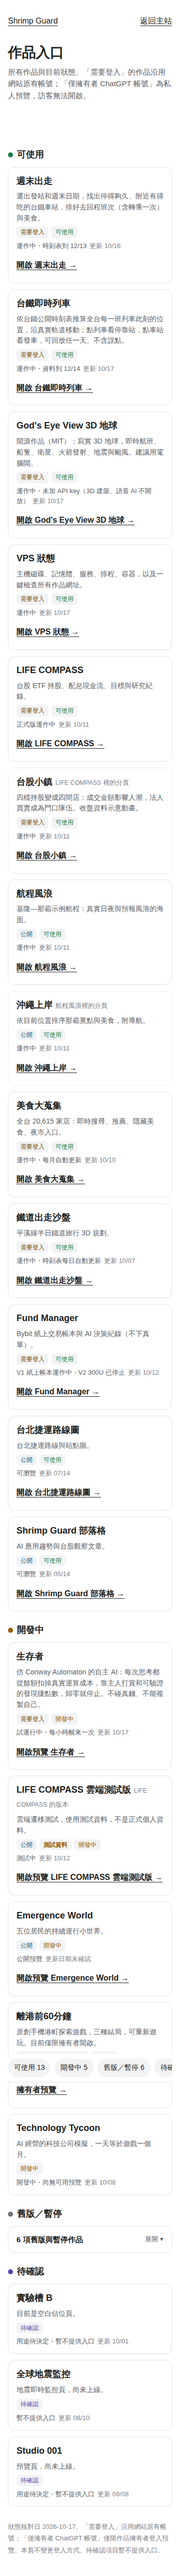
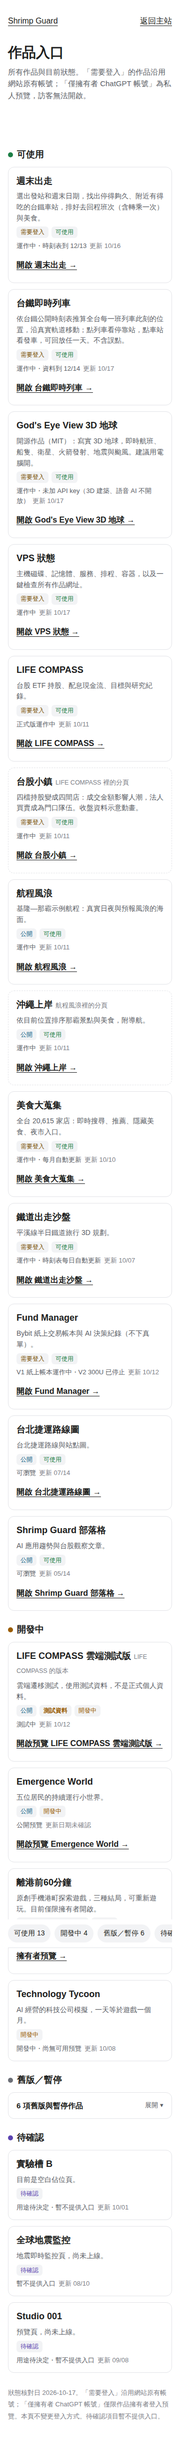
projects: retire 生存者 card (26 works)
Claude-Session: https://claude.ai/code/session_01GVcRfQhdVaSGc69DiKrmzk

diff --git a/overlays/projects/index.html b/overlays/projects/index.html
@@ -1,0 +1,28 @@
+<!doctype html><html lang="zh-Hant"><head><meta charset="utf-8"><meta name="viewport" content="width=device-width,initial-scale=1"><title>作品入口 · Shrimp Guard</title><meta name="description" content="Shrimp Guard 所有作品與目前狀態。"><style>
+:root{color-scheme:light dark;--bg:#fff;--card:#fff;--ink:#1d1e20;--ink2:#5b5e66;--ink3:#7d8087;--line:#e3e4e8;--chip:#f2f3f5;--ok:#1d7f46;--dev:#9a5c00;--old:#6c6f77;--ask:#5b43b0;--lock:#7a5000;--pub:#0a5f85}
+@media (prefers-color-scheme:dark){:root{--bg:#1d1e20;--card:#26272b;--ink:#dadadb;--ink2:#b0b2b7;--ink3:#8c8f96;--line:#38393e;--chip:#313237;--ok:#57c785;--dev:#e3a23a;--old:#a3a6ad;--ask:#ad98f2;--lock:#e5b864;--pub:#64bde4}}
+*{box-sizing:border-box}body{margin:0;background:var(--bg);color:var(--ink);font-family:-apple-system,BlinkMacSystemFont,"Segoe UI","PingFang TC","Noto Sans TC",sans-serif;line-height:1.55}
+.shell{max-width:1000px;margin:auto;padding:20px 16px 40px}
+nav.top{display:flex;justify-content:space-between;align-items:center}nav.top a{color:var(--ink);padding:10px 0;text-decoration:underline;text-underline-offset:4px}
+h1{font-size:clamp(28px,5vw,40px);margin:18px 0 6px}.intro{color:var(--ink2);margin:0;font-size:15px}
+.jump{position:sticky;top:0;z-index:2;background:var(--bg);display:flex;gap:8px;overflow-x:auto;padding:10px 0;margin-top:12px;border-bottom:1px solid var(--line)}
+.jump a{flex:none;font-size:14px;padding:7px 12px;border-radius:999px;background:var(--chip);color:var(--ink);text-decoration:none;white-space:nowrap}
+section{scroll-margin-top:60px}h2{display:flex;align-items:center;gap:8px;font-size:18px;margin:24px 0 10px}h2 i{width:10px;height:10px;border-radius:50%;display:inline-block}
+.grid{display:grid;grid-template-columns:repeat(2,minmax(0,1fr));gap:12px}
+.card{background:var(--card);border:1px solid var(--line);border-radius:12px;padding:14px 16px;display:flex;flex-direction:column;gap:6px;min-width:0}
+.card.sub{border-style:dashed}
+.name{font-size:18px;font-weight:700;margin:0}.of{font-size:12.5px;color:var(--ink3);font-weight:400;margin-left:6px}
+.desc{font-size:14px;color:var(--ink2);margin:0}
+.tags{display:flex;gap:6px;flex-wrap:wrap;margin:0;padding:0;list-style:none}
+.tags li{font-size:12px;padding:2px 8px;border-radius:6px;background:var(--chip);color:var(--ink2)}
+.tags .pub{color:var(--pub)}.tags .lock{color:var(--lock)}.tags .ok{color:var(--ok)}.tags .dev{color:var(--dev)}.tags .old{color:var(--old)}.tags .ask{color:var(--ask)}.tags .test{color:var(--dev);font-weight:700}
+.st{font-size:13px;color:var(--ink2);margin:0}.st time{color:var(--ink3);margin-left:6px}
+.open{margin:2px 0 0}.open a{display:inline-block;padding:8px 0;color:var(--ink);font-weight:700;text-decoration:underline;text-underline-offset:4px}
+details{border:1px solid var(--line);border-radius:12px;background:var(--card)}
+summary{cursor:pointer;padding:14px 16px;font-size:15px;font-weight:700;display:flex;justify-content:space-between;align-items:center}
+summary::-webkit-details-marker{display:none}summary::after{content:"展開 ▾";font-size:13px;font-weight:500;color:var(--ink2)}details[open] summary::after{content:"收合 ▴"}
+details .grid{padding:0 12px 12px}
+footer{margin-top:28px;font-size:13px;color:var(--ink3);line-height:1.8}
+a:focus-visible,summary:focus-visible{outline:3px solid #6797c0;outline-offset:4px}
+@media(max-width:600px){.grid{grid-template-columns:1fr}}
+</style></head><body><div class="shell"><nav class="top" aria-label="網站導覽"><a href="/">Shrimp Guard</a><a href="/">返回主站</a></nav><main><h1>作品入口</h1><p class="intro">所有作品與目前狀態。「需要登入」的作品沿用網站原有帳號；「僅擁有者 ChatGPT 帳號」為私人預覽，訪客無法開啟。</p><nav class="jump" aria-label="分類"><a href="#ok">可使用 13</a><a href="#dev">開發中 4</a><a href="#old">舊版／暫停 6</a><a href="#ask">待確認 3</a></nav><section id="ok" aria-label="可使用"><h2><i style="background:var(--ok)"></i>可使用</h2><div class="grid"><article class="card"><h3 class="name">週末出走</h3><p class="desc">選出發站和週末日期，找出停得夠久、附近有得吃的台鐵車站，排好去回程班次（含轉乘一次）與美食。</p><ul class="tags"><li class="lock">需要登入</li><li class="ok">可使用</li></ul><p class="st">運作中・時刻表到 12/13<time>更新 10/16</time></p><p class="open"><a href="https://dashboard.shrimp-guard.us.ci/weekend/">開啟 週末出走 →</a></p></article><article class="card"><h3 class="name">台鐵即時列車</h3><p class="desc">依台鐵公開時刻表推算全台每一班列車此刻的位置，沿真實軌道移動；點列車看停靠站，點車站看發車，可回放任一天。不含誤點。</p><ul class="tags"><li class="lock">需要登入</li><li class="ok">可使用</li></ul><p class="st">運作中・資料到 12/14<time>更新 10/17</time></p><p class="open"><a href="https://dashboard.shrimp-guard.us.ci/apps/rail-live/">開啟 台鐵即時列車 →</a></p></article><article class="card"><h3 class="name">God&#x27;s Eye View 3D 地球</h3><p class="desc">開源作品（MIT）：寫實 3D 地球，即時航班、船隻、衛星、火箭發射、地震與颱風。建議用電腦開。</p><ul class="tags"><li class="lock">需要登入</li><li class="ok">可使用</li></ul><p class="st">運作中・未加 API key（3D 建築、語音 AI 不開放）<time>更新 10/17</time></p><p class="open"><a href="https://dashboard.shrimp-guard.us.ci/globe/">開啟 God&#x27;s Eye View 3D 地球 →</a></p></article><article class="card"><h3 class="name">VPS 狀態</h3><p class="desc">主機磁碟、記憶體、服務、排程、容器，以及一鍵檢查所有作品網址。</p><ul class="tags"><li class="lock">需要登入</li><li class="ok">可使用</li></ul><p class="st">運作中<time>更新 10/17</time></p><p class="open"><a href="https://dashboard.shrimp-guard.us.ci/apps/vps/">開啟 VPS 狀態 →</a></p></article><article class="card"><h3 class="name">LIFE COMPASS</h3><p class="desc">台股 ETF 持股、配息現金流、目標與研究紀錄。</p><ul class="tags"><li class="lock">需要登入</li><li class="ok">可使用</li></ul><p class="st">正式版運作中<time>更新 10/11</time></p><p class="open"><a href="https://dashboard.shrimp-guard.us.ci/one-life/">開啟 LIFE COMPASS →</a></p></article><article class="card sub"><h3 class="name">台股小鎮<span class="of">LIFE COMPASS 裡的分頁</span></h3><p class="desc">四檔持股變成四間店：成交金額影響人潮，法人買賣成為門口隊伍。收盤資料示意動畫。</p><ul class="tags"><li class="lock">需要登入</li><li class="ok">可使用</li></ul><p class="st">運作中<time>更新 10/11</time></p><p class="open"><a href="https://dashboard.shrimp-guard.us.ci/one-life/#town">開啟 台股小鎮 →</a></p></article><article class="card"><h3 class="name">航程風浪</h3><p class="desc">基隆—那霸示例航程：真實日夜與預報風浪的海面。</p><ul class="tags"><li class="pub">公開</li><li class="ok">可使用</li></ul><p class="st">運作中<time>更新 10/11</time></p><p class="open"><a href="/room/">開啟 航程風浪 →</a></p></article><article class="card sub"><h3 class="name">沖繩上岸<span class="of">航程風浪裡的分頁</span></h3><p class="desc">依目前位置排序那霸景點與美食，附導航。</p><ul class="tags"><li class="pub">公開</li><li class="ok">可使用</li></ul><p class="st">運作中<time>更新 10/11</time></p><p class="open"><a href="/room/#landing">開啟 沖繩上岸 →</a></p></article><article class="card"><h3 class="name">美食大蒐集</h3><p class="desc">全台 20,615 家店：即時搜尋、推薦、隱藏美食、夜市入口。</p><ul class="tags"><li class="lock">需要登入</li><li class="ok">可使用</li></ul><p class="st">運作中・每月自動更新<time>更新 10/10</time></p><p class="open"><a href="https://dashboard.shrimp-guard.us.ci/food-map/">開啟 美食大蒐集 →</a></p></article><article class="card"><h3 class="name">鐵道出走沙盤</h3><p class="desc">平溪線半日鐵道旅行 3D 規劃。</p><ul class="tags"><li class="lock">需要登入</li><li class="ok">可使用</li></ul><p class="st">運作中・時刻表每日自動更新<time>更新 10/07</time></p><p class="open"><a href="https://dashboard.shrimp-guard.us.ci/rail-trip/">開啟 鐵道出走沙盤 →</a></p></article><article class="card"><h3 class="name">Fund Manager</h3><p class="desc">Bybit 紙上交易帳本與 AI 決策紀錄（不下真單）。</p><ul class="tags"><li class="lock">需要登入</li><li class="ok">可使用</li></ul><p class="st">V1 紙上帳本運作中・V2 300U 已停止<time>更新 10/12</time></p><p class="open"><a href="https://dashboard.shrimp-guard.us.ci/fund-manager/">開啟 Fund Manager →</a></p></article><article class="card"><h3 class="name">台北捷運路線圖</h3><p class="desc">台北捷運路線與站點圖。</p><ul class="tags"><li class="pub">公開</li><li class="ok">可使用</li></ul><p class="st">可瀏覽<time>更新 07/14</time></p><p class="open"><a href="/taipei-mrt/">開啟 台北捷運路線圖 →</a></p></article><article class="card"><h3 class="name">Shrimp Guard 部落格</h3><p class="desc">AI 應用趨勢與台股觀察文章。</p><ul class="tags"><li class="pub">公開</li><li class="ok">可使用</li></ul><p class="st">可瀏覽<time>更新 05/14</time></p><p class="open"><a href="/">開啟 Shrimp Guard 部落格 →</a></p></article></div></section><section id="dev" aria-label="開發中"><h2><i style="background:var(--dev)"></i>開發中</h2><div class="grid"><article class="card"><h3 class="name">LIFE COMPASS 雲端測試版<span class="of">LIFE COMPASS 的版本</span></h3><p class="desc">雲端遷移測試，使用測試資料，不是正式個人資料。</p><ul class="tags"><li class="pub">公開</li><li class="test">測試資料</li><li class="dev">開發中</li></ul><p class="st">測試中<time>更新 10/12</time></p><p class="open"><a href="https://life-compass.httpsmulticlawmoltidworkersdevcmolt32c002a10b29b0e3ad3.workers.dev/">開啟預覽 LIFE COMPASS 雲端測試版 →</a></p></article><article class="card"><h3 class="name">Emergence World</h3><p class="desc">五位居民的持續運行小世界。</p><ul class="tags"><li class="pub">公開</li><li class="dev">開發中</li></ul><p class="st">公開預覽<time>更新日期未確認</time></p><p class="open"><a href="https://emergence-world-preview.httpsmulticlawmoltidworkersdevcmolt32c002a10b29b0e3ad3.workers.dev/">開啟預覽 Emergence World →</a></p></article><article class="card"><h3 class="name">離港前60分鐘</h3><p class="desc">原創手機港町探索遊戲，三種結局，可重新遊玩。目前僅限擁有者開啟。</p><ul class="tags"><li class="lock">僅擁有者 ChatGPT 帳號</li><li class="dev">開發中</li></ul><p class="st">可玩測試版・私人存取<time>更新 10/13</time></p><p class="open"><a href="https://harbor-sixty-minute-game.windy-maple-0615.chatgpt.site">擁有者預覽 →</a></p></article><article class="card"><h3 class="name">Technology Tycoon</h3><p class="desc">AI 經營的科技公司模擬，一天等於遊戲一個月。</p><ul class="tags"><li class="dev">開發中</li></ul><p class="st">開發中・尚無可用預覽<time>更新 10/08</time></p></article></div></section><section id="old" aria-label="舊版／暫停"><h2><i style="background:var(--old)"></i>舊版／暫停</h2><details><summary>6 項舊版與暫停作品</summary><div class="grid"><article class="card"><h3 class="name">小王國</h3><p class="desc">手機王國遊戲（建設村莊、發布懸賞、英雄自行出任務）。</p><ul class="tags"><li class="old">舊版／暫停</li></ul><p class="st">暫停・素材成果保留<time>更新 10/12</time></p></article><article class="card"><h3 class="name">世界與我</h3><p class="desc">原入口保留中。</p><ul class="tags"><li class="pub">公開</li><li class="old">舊版／暫停</li></ul><p class="st">保留中<time>更新 10/08</time></p><p class="open"><a href="/world-impact/">開啟 世界與我 →</a></p></article><article class="card"><h3 class="name">美食大蒐集（公開版）<span class="of">美食大蒐集的版本</span></h3><p class="desc">曾規劃的 GitHub Pages 公開版本。</p><ul class="tags"><li class="old">舊版／暫停</li></ul><p class="st">暫停・正式版在美食大蒐集<time>更新 10/10</time></p></article><article class="card"><h3 class="name">ONE LIFE ／ AI Resident</h3><p class="desc">生活角色實驗，網址已由 LIFE COMPASS 接手。</p><ul class="tags"><li class="old">舊版／暫停</li></ul><p class="st">已退役<time>更新 10/01</time></p></article><article class="card"><h3 class="name">AI COMMONS ／ Latticefolk</h3><p class="desc">多模型社群與 AI 生活世界實驗。</p><ul class="tags"><li class="old">舊版／暫停</li></ul><p class="st">已退役<time>更新 09/30</time></p></article><article class="card"><h3 class="name">Fund Manager V2 300U<span class="of">Fund Manager 的版本</span></h3><p class="desc">300 USDT 雙向持倉紙上帳本。</p><ul class="tags"><li class="old">舊版／暫停</li></ul><p class="st">已停止・紀錄可在 Fund Manager 查看<time>更新 10/12</time></p></article></div></details></section><section id="ask" aria-label="待確認"><h2><i style="background:var(--ask)"></i>待確認</h2><div class="grid"><article class="card"><h3 class="name">實驗槽 B</h3><p class="desc">目前是空白佔位頁。</p><ul class="tags"><li class="ask">待確認</li></ul><p class="st">用途待決定・暫不提供入口<time>更新 10/01</time></p></article><article class="card"><h3 class="name">全球地震監控</h3><p class="desc">地震即時監控頁，尚未上線。</p><ul class="tags"><li class="ask">待確認</li></ul><p class="st">暫不提供入口<time>更新 08/10</time></p></article><article class="card"><h3 class="name">Studio 001</h3><p class="desc">預覽頁，尚未上線。</p><ul class="tags"><li class="ask">待確認</li></ul><p class="st">用途待決定・暫不提供入口<time>更新 09/08</time></p></article></div></section></main><footer>狀態核對日 2026-10-17。「需要登入」沿用網站原有帳號；「僅擁有者 ChatGPT 帳號」僅限作品擁有者登入預覽。本頁不變更登入方式。待確認項目暫不提供入口。</footer></div></body></html>

diff --git a/scripts/build_projects_entry.py b/scripts/build_projects_entry.py
@@ -21,7 +21,6 @@ WORKS = [
     dict(g='ok', name='Fund Manager', desc='Bybit 紙上交易帳本與 AI 決策紀錄（不下真單）。', url=D + '/fund-manager/', login=True, st='V1 紙上帳本運作中・V2 300U 已停止', date='10/12'),
     dict(g='ok', name='台北捷運路線圖', desc='台北捷運路線與站點圖。', url='/taipei-mrt/', login=False, st='可瀏覽', date='07/14'),
     dict(g='ok', name='Shrimp Guard 部落格', desc='AI 應用趨勢與台股觀察文章。', url='/', login=False, st='可瀏覽', date='05/14'),
-    dict(g='dev', name='生存者', desc='仿 Conway Automaton 的自主 AI：每次思考都從餘額扣掉真實運算成本，靠主人打賞和可驗證的發現賺點數，歸零就停止。不碰真錢、不能複製自己。', url=D + '/apps/automaton/', login=True, st='試運行中・每小時醒來一次', date='10/17'),
     dict(g='dev', name='LIFE COMPASS 雲端測試版', of='LIFE COMPASS 的版本', desc='雲端遷移測試，使用測試資料，不是正式個人資料。', url='https://life-compass.httpsmulticlawmoltidworkersdevcmolt32c002a10b29b0e3ad3.workers.dev/', login=False, test=True, st='測試中', date='10/12'),
     dict(g='dev', name='Emergence World', desc='五位居民的持續運行小世界。', url='https://emergence-world-preview.httpsmulticlawmoltidworkersdevcmolt32c002a10b29b0e3ad3.workers.dev/', login=False, st='公開預覽', date=None),
     dict(g='dev', name='離港前60分鐘', desc='原創手機港町探索遊戲，三種結局，可重新遊玩。目前僅限擁有者開啟。', url='https://harbor-sixty-minute-game.windy-maple-0615.chatgpt.site', login=True, access='僅擁有者 ChatGPT 帳號', btn='擁有者預覽', st='可玩測試版・私人存取', date='10/13'),
